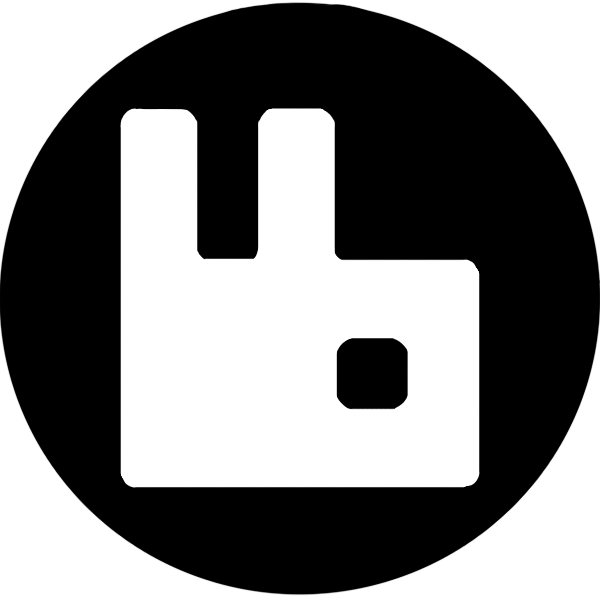
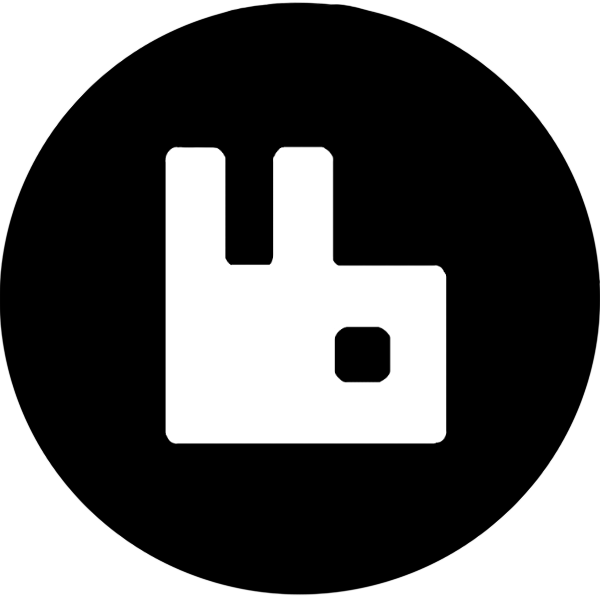
Added Bitcoin Bruteforcer project

Changed region(s): [[0.18, 0.18, 0.81, 0.84], [0.54, 0.54, 0.69, 0.69]]

diff --git a/src/pages/projects.tsx b/src/pages/projects.tsx
@@ -4,12 +4,18 @@ import google from "../static/projects/google.png";
 import react_logo from "../static/skills/react.png";
 import javascript_logo from "../static/skills/javascript.png";
 import typescript_logo from "../static/skills/typescript.png";
-import flask_logo from "../static/skills/flask.png";
+import html_logo from "../static/skills/html.png";
+import css_logo from "../static/skills/css.png";
+import tailwindcss_logo from "../static/skills/tailwindcss.png";
+import python_logo from "../static/skills/python.png";
 
 let react = "react";
 let javascript = "javascript";
 let typescript = "typescript";
-let flask = "flask";
+let html = "html";
+let css = "css";
+let tailwindcss = "tailwindcss";
+let python = "python";
 
 export let skills = {
   [react]: {
@@ -24,15 +30,27 @@ export let skills = {
     name: "TypeScript",
     logo: typescript_logo,
   },
-  [flask]: {
-    name: "Flask",
-    logo: flask_logo,
+  [html]: {
+    name: "HTML",
+    logo: html_logo,
+  },
+  [css]: {
+    name: "CSS",
+    logo: css_logo,
+  },
+  [tailwindcss]: {
+    name: "Tailwind CSS",
+    logo: tailwindcss_logo,
+  },
+  [python]: {
+    name: "Python",
+    logo: python_logo,
   },
 };
 
 export let projects = [
   {
-    name: "Portfolio",
+    name: "My Portfolio",
     link: "https://portfolio.ufukogutcu.com",
     github: "https://github.com/ufukogutcu/portfolio",
     image: portfolio,
@@ -46,48 +64,14 @@ export let projects = [
         All the logos in this website were hand-drawn by me.
       </>
     ),
-    skills: [
-      "react",
-      "javascript",
-      "typescript",
-      "react",
-      "javascript",
-      "typescript",
-      "react",
-      "javascript",
-      "typescript",
-    ],
+    skills: ["react", "javascript", "typescript", "html", "css", "tailwindcss"],
   },
   {
-    name: "bbb no github",
+    name: "Bitcoin Bruteforcer",
     link: "bbb.com",
-    github: "",
+    github: "https://github.com/ufukogutcu/btc-bruteforcer",
     image: google,
     description: "bbbbbbbbbbbbbbbbbb",
-    skills: ["flask"],
-  },
-  {
-    name: "ccc no skills",
-    link: "ccc.com",
-    github: "gitc.com",
-    image: portfolio,
-    description: "cccccccccccccccccc",
-    skills: [],
-  },
-  {
-    name: "ddd",
-    link: "ddd.com",
-    github: "gitd.com",
-    image: google,
-    description: "ddddddddddddddddddd",
-    skills: ["flask"],
-  },
-  {
-    name: "eee",
-    link: "eee.com",
-    github: "gite.com",
-    image: google,
-    description: "eeeeeeeeeeeeeeeee",
-    skills: ["flask"],
+    skills: ["python"],
   },
 ];

diff --git a/src/pages/skills.tsx b/src/pages/skills.tsx
@@ -18,13 +18,13 @@ import celery from "../static/skills/celery.png";
 import rabbitmq from "../static/skills/rabbitmq.png";
 //Others
 import git from "../static/skills/git.png";
-import docker from "../static/skills/git.png";
-import nginx from "../static/skills/git.png";
-import gcp from "../static/skills/git.png";
-import java from "../static/skills/git.png";
-import c from "../static/skills/git.png";
-import cpp from "../static/skills/git.png";
-import cs from "../static/skills/git.png";
+import docker from "../static/skills/docker.png";
+import nginx from "../static/skills/nginx.png";
+import gcp from "../static/skills/gcp.png";
+import java from "../static/skills/java.png";
+import c from "../static/skills/c.png";
+import cpp from "../static/skills/cpp.png";
+import cs from "../static/skills/cs.png";
 import solidity from "../static/skills/git.png";
 import haskell from "../static/skills/git.png";
 import unity from "../static/skills/git.png";

diff --git a/public/index.html b/public/index.html
@@ -2,7 +2,7 @@
 <html lang="en">
   <head>
     <meta charset="utf-8" />
-    <link rel="icon" href="%PUBLIC_URL%/favicon.ico" />
+    <link rel="icon" href="%PUBLIC_URL%/logo.png" />
     <meta name="viewport" content="width=device-width, initial-scale=1" />
     <meta name="theme-color" content="#000000" />
     <meta
